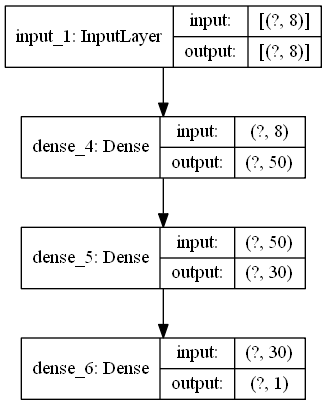
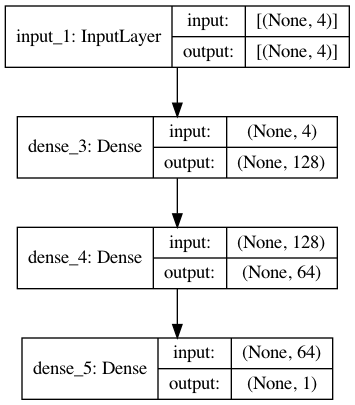
A2C

diff --git a/A3C_Cartpole_new.py b/A3C_Cartpole_new.py
@@ -1,0 +1,244 @@
+import multiprocessing as mp
+import tensorflow as tf
+import numpy as np
+import datetime
+import gym
+
+UNIT_ACTOR_1 = 128  # number of units in 1st Actor layer
+UNIT_ACTOR_2 = 64  # number of units in 2nd Actor layer
+UNIT_CRITIC_1 = 128  # number of units in 1st Critic layer
+UNIT_CRITIC_2 = 64  # number of units in 2nd Critic layer
+
+EPISODE_MAX = 5000  # max episode of each local agent
+STEP_MAX = 50  # max step before update network
+
+GAMMA = 0.99  # reward discount
+BETA = 1  # exploration coefficient
+LR = 0.0001  # learning rate
+
+class NeuralNetwork:
+    def __init__(self, ob_shape, action_shape):
+        """
+        Create Actor-Critic network.
+
+        :param ob_shape: observation dimension
+        :param action_shape: action dimension
+        """
+        # Actor Network
+        inputs = tf.keras.Input(shape=(ob_shape,))
+        x = tf.keras.layers.Dense(UNIT_ACTOR_1, activation='relu')(inputs)
+        x = tf.keras.layers.Dense(UNIT_ACTOR_2, activation='relu')(x)
+        outputs_a = tf.keras.layers.Dense(action_shape)(x)
+
+        self.model_Actor = tf.keras.Model(inputs=inputs,
+                                          outputs=outputs_a,
+                                          name='Actor_Net')
+
+        # Critic Network
+        y= tf.keras.layers.Dense(UNIT_CRITIC_1, activation='relu')(inputs)
+        y= tf.keras.layers.Dense(UNIT_CRITIC_2, activation='relu')(y)
+        outputs_c = tf.keras.layers.Dense(1)(y)
+
+        self.model_Critic = tf.keras.Model(inputs=inputs,
+                                           outputs=outputs_c,
+                                           name='Critic_Net')
+
+        # Actor-Critic Network
+        self.model_ActorCritic = tf.keras.Model(inputs=inputs,
+                                                outputs=[outputs_a, outputs_c],
+                                                name='ActorCritic_Net')
+
+    def show_model(self):
+        """
+        Show the structure of the neural network.
+        """
+        self.model_Actor.summary()
+        self.model_Critic.summary()
+        self.model_ActorCritic.summary()
+
+        # generate .PNG figure
+        tf.keras.utils.plot_model(self.model_Actor, 'Actor Network.png', show_shapes=True)
+        tf.keras.utils.plot_model(self.model_Critic, 'Critic Network.png', show_shapes=True)
+        tf.keras.utils.plot_model(self.model_ActorCritic, 'Actor-Critic Network.png', show_shapes=True)
+
+class GlobalNetwork(NeuralNetwork):
+    """
+    Global network.
+    Receive gradients from local networks, updates, send back new models.
+    """
+    def __init__(self, ob_shape, action_shape):
+        super().__init__(ob_shape, action_shape)
+
+        # Optimizer
+        self.opti = tf.keras.optimizers.RMSprop(learning_rate=LR)
+
+    def get_weights(self):
+        """
+        Get weights of the Actor-critic network.
+        :return: weights
+        """
+        return self.model_ActorCritic.get_weights()
+
+    def get_optimizer(self):
+        """
+        Get the optimizer.
+        :return: optimizer
+        """
+        return self.opti
+
+
+class LocalAgent(NeuralNetwork):
+    """
+    Local agent.
+    Interact with the env and compute the gradient.
+    Then send the gradient to the global network.
+    """
+    def __init__(self, ob_shape, action_shape, ini_weight, seed, index, global_net, lock):
+        """
+        :param ob_shape: observation dimension
+        :param action_shape: action dimension
+        :param ini_weight: initial weights (the same as the global network)
+        :param seed: env random seed
+        :param index: agent index
+        :param global_net: global network
+        :param lock: multiprocessing lock
+        """
+        super().__init__(ob_shape, action_shape)
+
+        # initialize the weights
+        self.model_ActorCritic.set_weights(weights=ini_weight)
+
+        # create game
+        self.env = gym.make('CartPole-v0')
+        self.env.seed(seed)
+
+        self.index = index
+        self.global_net = global_net
+        self.lock = lock
+
+    def train(self):
+        print('Agent', self.index, 'is training.')
+
+        # reset the game
+        state = self.env.reset()
+        step_counter = 0
+
+        for i_episode in range(EPISODE_MAX):
+            policys = []
+            log_policys = []
+            entropies = []
+            values = []
+            rewards = []
+
+            with tf.GradientTape() as t:
+                for step in range(STEP_MAX):
+                    logits, value = self.model_ActorCritic(state.reshape((1, -1)))
+                    policy = tf.nn.softmax(logits)
+                    log_policy = tf.nn.log_softmax(logits)
+                    entropy = tf.reduce_sum(policy * log_policy, keepdims=True)
+
+                    # Probe
+                    if step % 20 == 0:
+                        print(policy.numpy()[0])
+
+                    # Perform action
+                    action = np.random.choice(2, size=1, p=policy.numpy().reshape(-1))[0]
+                    state, reward, done, _ = self.env.step(action)
+                    reward = self.custom_reward(state)
+                    #self.env.render()
+
+                    # Extract the selected log_policy
+                    log_policy = tf.reduce_sum(tf.reshape(tf.one_hot(action, 2), (1, -1)) * log_policy)
+
+                    rewards.append(reward)
+                    policys.append(policy)
+                    log_policys.append(log_policy)
+                    entropies.append(entropy)
+                    values.append(value)
+
+                    if done:
+                        state = self.env.reset()
+                        print('Max step:', step + 1)
+                        break
+                if done:
+                    R = 0
+                else:
+                    R = value.numpy()[0, 0]
+                actor_loss = 0
+                critic_loss = 0
+                entropy_loss = 0
+                for i in range(step, -1, -1):
+                    R = GAMMA * R + rewards[i]
+                    actor_loss += (R - values[i]) * log_policys[i]
+                    critic_loss += (R - values[i]) ** 2
+                    entropy_loss += entropies[i]
+                loss = - actor_loss + critic_loss - BETA * entropy_loss
+
+            # Compute gradient
+            d = t.gradient(loss, self.model_ActorCritic.trainable_weights)
+            self.lock.acquire()
+            self.global_net.opti.apply_gradients(zip(d, self.global_net.model_ActorCritic.trainable_weights))
+            self.model_ActorCritic.set_weights(self.global_net.get_weights())
+            self.lock.release()
+
+            # Test per 10 updates
+            if i_episode % 10 == 0:
+                for round in range(5):
+                    state = self.env.reset()
+                    total_reward = 0
+                    while 1:
+                        logits = self.model_Actor(state.reshape((1, -1)))
+                        policy = tf.nn.softmax(logits)
+                        action = np.argmax(policy)
+                        state, reward, done, _ = self.env.step(action)
+                        reward = self.custom_reward(state)
+                        self.env.render()
+                        total_reward += reward
+                        if done:
+                            state = self.env.reset()
+                            print('Test total rewards:', total_reward)
+                            break
+
+    def custom_reward(self, state):
+        x, x_dot, theta, theta_dot = state
+        r1 = (self.env.x_threshold - abs(x)) / self.env.x_threshold - 0.8
+        r2 = (self.env.theta_threshold_radians - abs(theta)) / self.env.theta_threshold_radians - 0.5
+        return r1 + r2
+
+
+def local_run(global_net, index, lock):
+    local_agent = LocalAgent(ob_shape=4,
+                             action_shape=2,
+                             ini_weight=ini_weights,
+                             seed=1,
+                             index=index,
+                             global_net=global_net,
+                             lock=lock)
+    local_agent.train()
+
+
+
+
+if __name__ == '__main__':
+    # Create global network
+    global_net = GlobalNetwork(ob_shape=4, action_shape=2)
+    ini_weights = global_net.get_weights()
+
+    # # multiprocessing
+    # #mp.set_start_method('spawn')
+    # lock = mp.Lock()
+    # p1 = mp.Process(target=local_run, args=(global_net, 1, lock))
+    #
+    # p1.start()
+    #
+    # while 1:
+    #     a = 1
+    local_agent = LocalAgent(ob_shape=4,
+                             action_shape=2,
+                             ini_weight=ini_weights,
+                             seed=1,
+                             index=1,
+                             global_net=global_net,
+                             lock=mp.Lock())
+    local_agent.train()
+

diff --git a/tf_test.py b/tf_test.py
@@ -1,14 +1,20 @@
-import tensorflow as tf
-import numpy as np
+# import tensorflow as tf
+# import numpy as np
+#
+# x = tf.constant(3.0)
+# with tf.GradientTape() as g:
+#   g.watch(x)
+#   c = np.clip(np.random.normal(0, 5), -0.5, 0.5)
+#   print('c=',c)
+#   d = np.clip(np.random.normal(0, 5), -0.5, 0.5)
+#   print('d=', d)
+#   y = d * c * x * x
+# dy_dx = g.gradient(y, x) # Will compute to 6.0
+#
+# print(dy_dx)
 
-x = tf.constant(3.0)
-with tf.GradientTape() as g:
-  g.watch(x)
-  c = np.clip(np.random.normal(0, 5), -0.5, 0.5)
-  print('c=',c)
-  d = np.clip(np.random.normal(0, 5), -0.5, 0.5)
-  print('d=', d)
-  y = d * c * x * x
-dy_dx = g.gradient(y, x) # Will compute to 6.0
+a = list(range(10))
+b = list(range(10, 20))
 
-print(dy_dx)
+for i, j in zip(a, b):
+  print(i, j)
